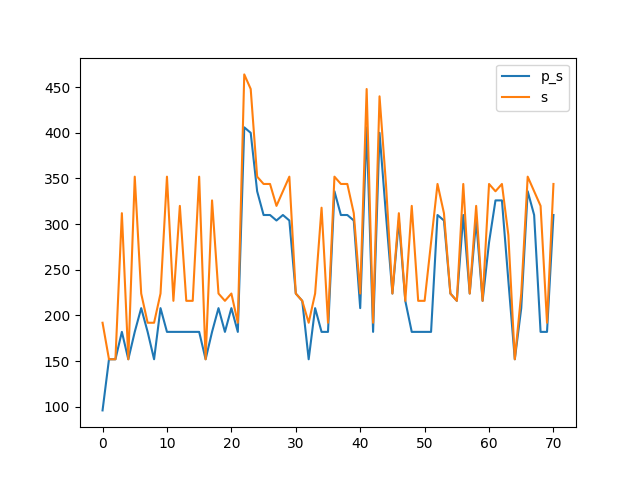
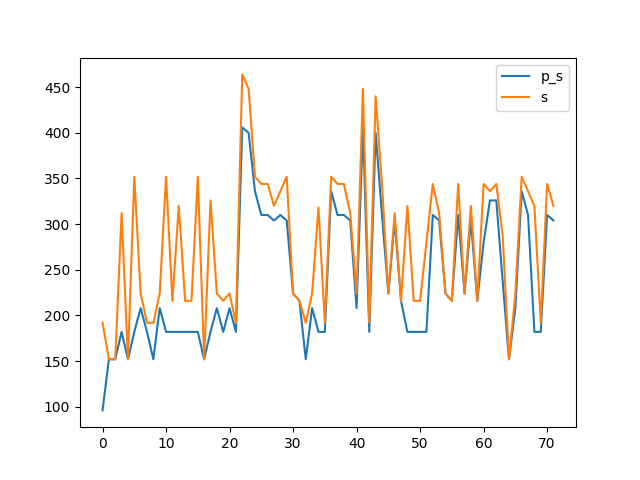
0x0047

diff --git a/benchmark.md b/benchmark.md
@@ -140,16 +140,18 @@ Synthesising 0x0045 pexact:182 r=4 exact:192 r=3
 
 Synthesising 0x0046 pexact:310 r=5 exact:344 r=4
 
+Synthesising 0x0047 pexact:304 r=5 exact:320 r=4
+
 ```mermaid
 xychart-beta
     title "Comparison powertwoexact twoexact"
-    x-axis [0, 1, 2, 3, 4, 5, 6, 7, 8, 9, 10, 11, 12, 13, 14, 15, 16, 17, 18, 19, 20, 21, 22, 23, 24, 25, 26, 27, 28, 29, 30, 31, 32, 33, 34, 35, 36, 37, 38, 39, 40, 41, 42, 43, 44, 45, 46, 47, 48, 49, 50, 51, 52, 53, 54, 55, 56, 57, 58, 59, 60, 61, 62, 63, 64, 65, 66, 67, 68, 69, 70]
+    x-axis [0, 1, 2, 3, 4, 5, 6, 7, 8, 9, 10, 11, 12, 13, 14, 15, 16, 17, 18, 19, 20, 21, 22, 23, 24, 25, 26, 27, 28, 29, 30, 31, 32, 33, 34, 35, 36, 37, 38, 39, 40, 41, 42, 43, 44, 45, 46, 47, 48, 49, 50, 51, 52, 53, 54, 55, 56, 57, 58, 59, 60, 61, 62, 63, 64, 65, 66, 67, 68, 69, 70, 71]
     y-axis "Switching Activity" 0-->464
-    line [96, 152, 152, 182, 152, 182, 208, 182, 152, 208, 182, 182, 182, 182, 182, 182, 152, 182, 208, 182, 208, 182, 406, 400, 336, 310, 310, 304, 310, 304, 224, 216, 152, 208, 182, 182, 336, 310, 310, 304, 208, 406, 182, 400, 310, 224, 304, 216, 182, 182, 182, 182, 310, 304, 224, 216, 310, 224, 304, 216, 280, 326, 326, 238, 152, 208, 336, 310, 182, 182, 310]
-    line [192, 152, 152, 312, 152, 352, 224, 192, 192, 224, 352, 216, 320, 216, 216, 352, 152, 326, 224, 216, 224, 192, 464, 448, 352, 344, 344, 320, 336, 352, 224, 216, 192, 224, 318, 192, 352, 344, 344, 312, 224, 448, 192, 440, 344, 224, 312, 216, 320, 216, 216, 280, 344, 312, 224, 216, 344, 224, 320, 216, 344, 336, 344, 288, 152, 224, 352, 336, 320, 192, 344]
-    line [238.19718309859155, 238.19718309859155, 238.19718309859155, 238.19718309859155, 238.19718309859155, 238.19718309859155, 238.19718309859155, 238.19718309859155, 238.19718309859155, 238.19718309859155, 238.19718309859155, 238.19718309859155, 238.19718309859155, 238.19718309859155, 238.19718309859155, 238.19718309859155, 238.19718309859155, 238.19718309859155, 238.19718309859155, 238.19718309859155, 238.19718309859155, 238.19718309859155, 238.19718309859155, 238.19718309859155, 238.19718309859155, 238.19718309859155, 238.19718309859155, 238.19718309859155, 238.19718309859155, 238.19718309859155, 238.19718309859155, 238.19718309859155, 238.19718309859155, 238.19718309859155, 238.19718309859155, 238.19718309859155, 238.19718309859155, 238.19718309859155, 238.19718309859155, 238.19718309859155, 238.19718309859155, 238.19718309859155, 238.19718309859155, 238.19718309859155, 238.19718309859155, 238.19718309859155, 238.19718309859155, 238.19718309859155, 238.19718309859155, 238.19718309859155, 238.19718309859155, 238.19718309859155, 238.19718309859155, 238.19718309859155, 238.19718309859155, 238.19718309859155, 238.19718309859155, 238.19718309859155, 238.19718309859155, 238.19718309859155, 238.19718309859155, 238.19718309859155, 238.19718309859155, 238.19718309859155, 238.19718309859155, 238.19718309859155, 238.19718309859155, 238.19718309859155, 238.19718309859155, 238.19718309859155, 238.19718309859155]
-    line [277.3521126760563, 277.3521126760563, 277.3521126760563, 277.3521126760563, 277.3521126760563, 277.3521126760563, 277.3521126760563, 277.3521126760563, 277.3521126760563, 277.3521126760563, 277.3521126760563, 277.3521126760563, 277.3521126760563, 277.3521126760563, 277.3521126760563, 277.3521126760563, 277.3521126760563, 277.3521126760563, 277.3521126760563, 277.3521126760563, 277.3521126760563, 277.3521126760563, 277.3521126760563, 277.3521126760563, 277.3521126760563, 277.3521126760563, 277.3521126760563, 277.3521126760563, 277.3521126760563, 277.3521126760563, 277.3521126760563, 277.3521126760563, 277.3521126760563, 277.3521126760563, 277.3521126760563, 277.3521126760563, 277.3521126760563, 277.3521126760563, 277.3521126760563, 277.3521126760563, 277.3521126760563, 277.3521126760563, 277.3521126760563, 277.3521126760563, 277.3521126760563, 277.3521126760563, 277.3521126760563, 277.3521126760563, 277.3521126760563, 277.3521126760563, 277.3521126760563, 277.3521126760563, 277.3521126760563, 277.3521126760563, 277.3521126760563, 277.3521126760563, 277.3521126760563, 277.3521126760563, 277.3521126760563, 277.3521126760563, 277.3521126760563, 277.3521126760563, 277.3521126760563, 277.3521126760563, 277.3521126760563, 277.3521126760563, 277.3521126760563, 277.3521126760563, 277.3521126760563, 277.3521126760563, 277.3521126760563]
-    bar [80, 60, 60, 80, 60, 80, 80, 80, 60, 80, 80, 80, 80, 80, 80, 80, 60, 80, 80, 80, 80, 80, 120, 120, 100, 100, 100, 100, 100, 100, 60, 60, 60, 80, 80, 80, 100, 100, 100, 100, 80, 120, 80, 120, 100, 60, 100, 60, 80, 80, 80, 80, 100, 100, 60, 60, 100, 60, 100, 60, 80, 100, 100, 100, 60, 80, 100, 100, 80, 80, 100]
-    bar [80, 60, 60, 80, 60, 80, 60, 60, 60, 60, 80, 60, 80, 60, 60, 80, 60, 80, 60, 60, 60, 60, 100, 100, 80, 80, 80, 80, 80, 80, 60, 60, 60, 60, 80, 60, 80, 80, 80, 80, 60, 100, 60, 100, 80, 60, 80, 60, 80, 60, 60, 80, 80, 80, 60, 60, 80, 60, 80, 60, 80, 80, 80, 80, 60, 60, 80, 80, 80, 60, 80]
+    line [96, 152, 152, 182, 152, 182, 208, 182, 152, 208, 182, 182, 182, 182, 182, 182, 152, 182, 208, 182, 208, 182, 406, 400, 336, 310, 310, 304, 310, 304, 224, 216, 152, 208, 182, 182, 336, 310, 310, 304, 208, 406, 182, 400, 310, 224, 304, 216, 182, 182, 182, 182, 310, 304, 224, 216, 310, 224, 304, 216, 280, 326, 326, 238, 152, 208, 336, 310, 182, 182, 310, 304]
+    line [192, 152, 152, 312, 152, 352, 224, 192, 192, 224, 352, 216, 320, 216, 216, 352, 152, 326, 224, 216, 224, 192, 464, 448, 352, 344, 344, 320, 336, 352, 224, 216, 192, 224, 318, 192, 352, 344, 344, 312, 224, 448, 192, 440, 344, 224, 312, 216, 320, 216, 216, 280, 344, 312, 224, 216, 344, 224, 320, 216, 344, 336, 344, 288, 152, 224, 352, 336, 320, 192, 344, 320]
+    line [239.11111111111111, 239.11111111111111, 239.11111111111111, 239.11111111111111, 239.11111111111111, 239.11111111111111, 239.11111111111111, 239.11111111111111, 239.11111111111111, 239.11111111111111, 239.11111111111111, 239.11111111111111, 239.11111111111111, 239.11111111111111, 239.11111111111111, 239.11111111111111, 239.11111111111111, 239.11111111111111, 239.11111111111111, 239.11111111111111, 239.11111111111111, 239.11111111111111, 239.11111111111111, 239.11111111111111, 239.11111111111111, 239.11111111111111, 239.11111111111111, 239.11111111111111, 239.11111111111111, 239.11111111111111, 239.11111111111111, 239.11111111111111, 239.11111111111111, 239.11111111111111, 239.11111111111111, 239.11111111111111, 239.11111111111111, 239.11111111111111, 239.11111111111111, 239.11111111111111, 239.11111111111111, 239.11111111111111, 239.11111111111111, 239.11111111111111, 239.11111111111111, 239.11111111111111, 239.11111111111111, 239.11111111111111, 239.11111111111111, 239.11111111111111, 239.11111111111111, 239.11111111111111, 239.11111111111111, 239.11111111111111, 239.11111111111111, 239.11111111111111, 239.11111111111111, 239.11111111111111, 239.11111111111111, 239.11111111111111, 239.11111111111111, 239.11111111111111, 239.11111111111111, 239.11111111111111, 239.11111111111111, 239.11111111111111, 239.11111111111111, 239.11111111111111, 239.11111111111111, 239.11111111111111, 239.11111111111111, 239.11111111111111]
+    line [277.94444444444446, 277.94444444444446, 277.94444444444446, 277.94444444444446, 277.94444444444446, 277.94444444444446, 277.94444444444446, 277.94444444444446, 277.94444444444446, 277.94444444444446, 277.94444444444446, 277.94444444444446, 277.94444444444446, 277.94444444444446, 277.94444444444446, 277.94444444444446, 277.94444444444446, 277.94444444444446, 277.94444444444446, 277.94444444444446, 277.94444444444446, 277.94444444444446, 277.94444444444446, 277.94444444444446, 277.94444444444446, 277.94444444444446, 277.94444444444446, 277.94444444444446, 277.94444444444446, 277.94444444444446, 277.94444444444446, 277.94444444444446, 277.94444444444446, 277.94444444444446, 277.94444444444446, 277.94444444444446, 277.94444444444446, 277.94444444444446, 277.94444444444446, 277.94444444444446, 277.94444444444446, 277.94444444444446, 277.94444444444446, 277.94444444444446, 277.94444444444446, 277.94444444444446, 277.94444444444446, 277.94444444444446, 277.94444444444446, 277.94444444444446, 277.94444444444446, 277.94444444444446, 277.94444444444446, 277.94444444444446, 277.94444444444446, 277.94444444444446, 277.94444444444446, 277.94444444444446, 277.94444444444446, 277.94444444444446, 277.94444444444446, 277.94444444444446, 277.94444444444446, 277.94444444444446, 277.94444444444446, 277.94444444444446, 277.94444444444446, 277.94444444444446, 277.94444444444446, 277.94444444444446, 277.94444444444446, 277.94444444444446]
+    bar [80, 60, 60, 80, 60, 80, 80, 80, 60, 80, 80, 80, 80, 80, 80, 80, 60, 80, 80, 80, 80, 80, 120, 120, 100, 100, 100, 100, 100, 100, 60, 60, 60, 80, 80, 80, 100, 100, 100, 100, 80, 120, 80, 120, 100, 60, 100, 60, 80, 80, 80, 80, 100, 100, 60, 60, 100, 60, 100, 60, 80, 100, 100, 100, 60, 80, 100, 100, 80, 80, 100, 100]
+    bar [80, 60, 60, 80, 60, 80, 60, 60, 60, 60, 80, 60, 80, 60, 60, 80, 60, 80, 60, 60, 60, 60, 100, 100, 80, 80, 80, 80, 80, 80, 60, 60, 60, 60, 80, 60, 80, 80, 80, 80, 60, 100, 60, 100, 80, 60, 80, 60, 80, 60, 60, 80, 80, 80, 60, 60, 80, 60, 80, 60, 80, 80, 80, 80, 60, 60, 80, 80, 80, 60, 80, 80]
 ```
 
